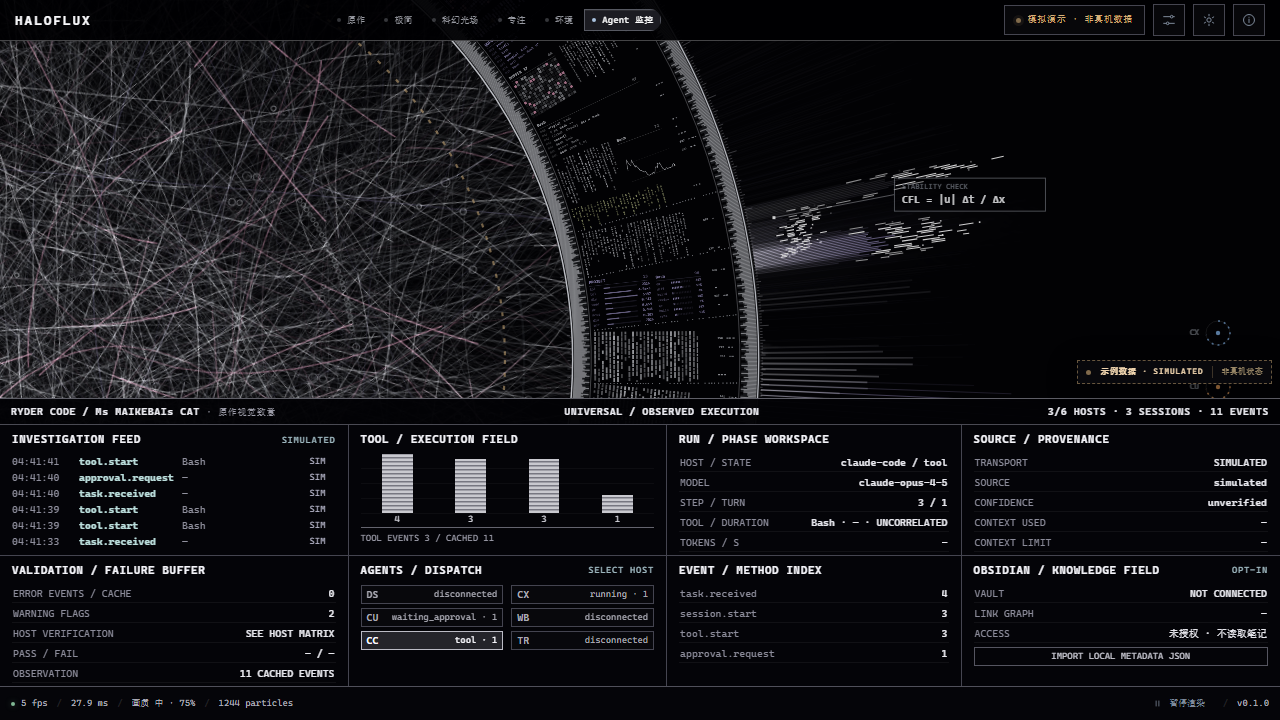
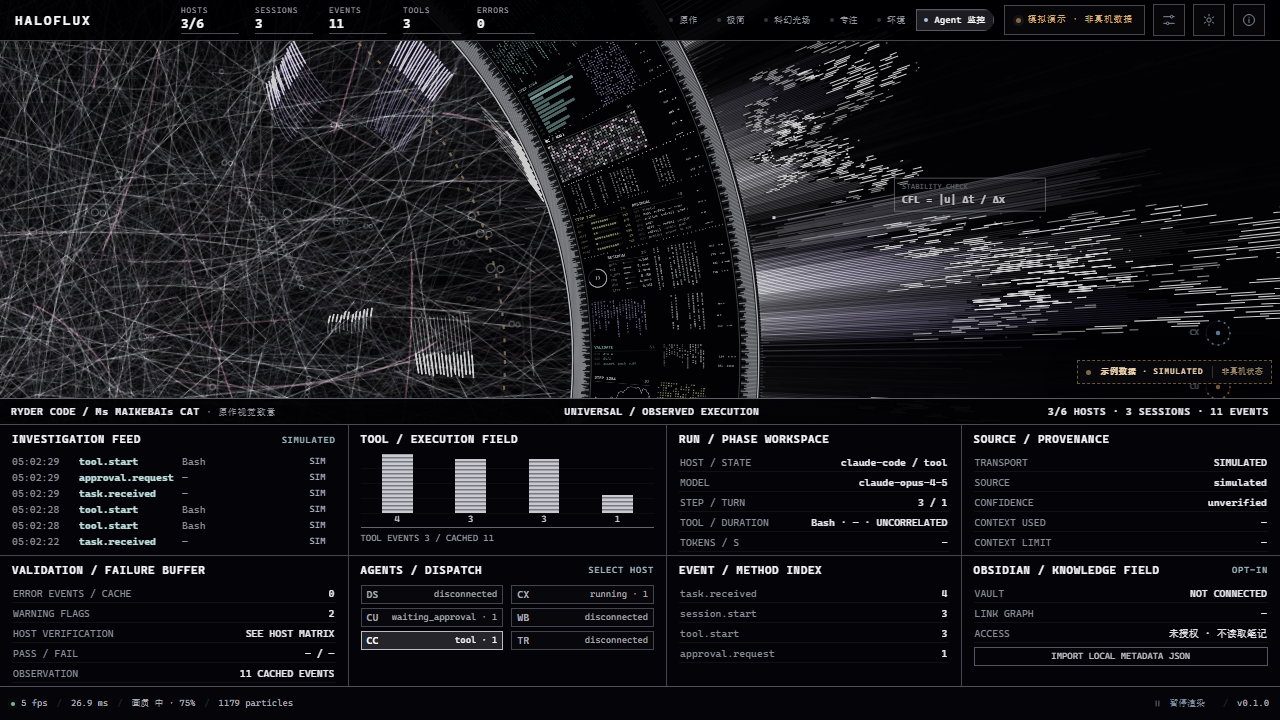
feat(p2): real KPI masthead, restrained beams, 1280 ring compensation
- agent-monitor topbar now shows five real observed KPI (HOSTS/SESSIONS/EVENTS/TOOLS/ERRORS)
- beam/glow reduced again; 1280-wide ring scale compensated to 0.78
- visual delta matrix updated: composition/layers/masthead 4/5, remaining gaps documented
- tests 86/86

diff --git a/apps/companion/renderer/app.js b/apps/companion/renderer/app.js
@@ -175,6 +175,12 @@ const els = {
   labHosts: $('lab-hosts'),
   labKnowledgeDetails: $('lab-knowledge-details'),
   labObsidianFile: $('lab-obsidian-file'),
+  labMasthead: $('lab-masthead'),
+  labKpiHosts: $('lab-kpi-hosts'),
+  labKpiSessions: $('lab-kpi-sessions'),
+  labKpiEvents: $('lab-kpi-events'),
+  labKpiTools: $('lab-kpi-tools'),
+  labKpiErrors: $('lab-kpi-errors'),
   feedMode: $('feed-mode'),
   linkStatus: $('link-status'),
   linkText: $('link-text'),
@@ -777,6 +783,13 @@ function renderLabMonitor() {
   const active = projection.selected;
   els.labHeadCount.textContent = `${projection.observedHostCount}/${projection.hostCount} HOSTS · ${projection.sessionCount} SESSIONS · ${projection.eventCount} EVENTS`;
   els.labFeedStatus.textContent = projection.mode === 'simulated' ? 'SIMULATED' : projection.mode.toUpperCase();
+  if (els.labMasthead) {
+    els.labKpiHosts.textContent = `${projection.observedHostCount}/${projection.hostCount}`;
+    els.labKpiSessions.textContent = String(projection.sessionCount);
+    els.labKpiEvents.textContent = String(projection.eventCount);
+    els.labKpiTools.textContent = String(projection.toolEventCount);
+    els.labKpiErrors.textContent = String(projection.errorEventCount);
+  }
 
   clearNode(els.labFeedRows);
   if (projection.recent.length === 0) {
@@ -949,6 +962,12 @@ function applyResponsiveMode() {
   document.body.dataset.mode = appMode;
   document.body.dataset.preset = state.preset;
   renderCompact();
+  // The engine scales the ring with the viewport height; at 1280x720 the arc
+  // reads ~6% larger than upstream. Only the Agent Monitor preset compensates,
+  // other presets keep their authored composition.
+  if (state.preset === 'agent-monitor' && typeof viz?.setParams === 'function') {
+    viz.setParams({ scale: window.innerWidth < 1400 ? 0.78 : 0.86 });
+  }
 }
 
 function renderSettings() {

diff --git a/apps/companion/renderer/styles.css b/apps/companion/renderer/styles.css
@@ -931,6 +931,7 @@ body.is-simulated .topbar::after {
    ------------------------------------------------------------------------- */
 
 .lab-console { display: none; }
+.lab-masthead { display: none; }
 
 @media (min-width: 1080px) and (min-height: 690px) {
   body[data-preset="agent-monitor"] {
@@ -970,6 +971,36 @@ body.is-simulated .topbar::after {
 
   body[data-preset="agent-monitor"] .brand { min-width: 138px; }
 
+  body[data-preset="agent-monitor"] .lab-masthead {
+    display: flex;
+    align-items: stretch;
+    gap: 16px;
+    flex: 1;
+    min-width: 0;
+    margin-left: 18px;
+  }
+
+  .lab-kpi {
+    display: grid;
+    align-content: center;
+    gap: 1px;
+    min-width: 58px;
+    padding-bottom: 2px;
+    border-bottom: 1px solid #4a4a53;
+  }
+
+  .lab-kpi span {
+    color: #9a9aa6;
+    font: 8px var(--font-mono);
+    letter-spacing: .09em;
+  }
+
+  .lab-kpi strong {
+    color: #f7f7fb;
+    font: 700 13px var(--font-mono);
+    font-variant-numeric: tabular-nums;
+  }
+
   body[data-preset="agent-monitor"] .brand-name {
     font: 700 13px var(--font-mono);
     letter-spacing: .15em;
@@ -983,7 +1014,7 @@ body.is-simulated .topbar::after {
     box-shadow: none;
     padding: 0;
     gap: 3px;
-    max-width: min(620px, 48vw);
+    max-width: min(430px, 36vw);
   }
 
   body[data-preset="agent-monitor"] .preset-btn {

diff --git a/apps/companion/renderer/index.html b/apps/companion/renderer/index.html
@@ -64,6 +64,14 @@
       </div>
     </div>
 
+    <div class="lab-masthead" id="lab-masthead" aria-hidden="true">
+      <div class="lab-kpi"><span>HOSTS</span><strong id="lab-kpi-hosts">—</strong></div>
+      <div class="lab-kpi"><span>SESSIONS</span><strong id="lab-kpi-sessions">—</strong></div>
+      <div class="lab-kpi"><span>EVENTS</span><strong id="lab-kpi-events">—</strong></div>
+      <div class="lab-kpi"><span>TOOLS</span><strong id="lab-kpi-tools">—</strong></div>
+      <div class="lab-kpi"><span>ERRORS</span><strong id="lab-kpi-errors">—</strong></div>
+    </div>
+
     <nav class="preset-switch" id="preset-switch" aria-label="视觉预设"></nav>
 
     <div class="topbar-actions">

diff --git a/packages/visual-core/src/presets.js b/packages/visual-core/src/presets.js
@@ -226,14 +226,14 @@ const AGENT_MONITOR = Object.freeze({
   cometTrickle: 0.8,
   cometBright: 0.86,
   hazeCount: 9,
-  hazeBright: 0.9,
+  hazeBright: 0.82,
   flyerCount: 1,
   burstRate: 1.2,
   burstBright: 0.82,
   flareRate: 1.2,
   flareBright: 0.85,
-  beamBright: 1.3,
-  beamGlow: 1.6,
+  beamBright: 1.15,
+  beamGlow: 1.4,
   bokeh: 0,
   scan: 0,
   guardOn: 0,

diff --git a/reports/p2/VISUAL-DELTA-MATRIX.md b/reports/p2/VISUAL-DELTA-MATRIX.md
@@ -24,10 +24,10 @@
 
 | # | 维度 | 原版证据 | 当前截图 | 问题（修复前） | 本轮修复 | 新截图 | 自评 | 未完成点 |
 |---|---|---|---|---|---|---|---|---|
-| 1 | 光环构图：偏左巨大环、半径与弧线位置 | `upstream-1600x900.png`：环在 y=300 处亮度带约 x≈800–880，顶部约 x≈540–600 | `before-1600x900.png`：光环偏暗、居中、被左右圆角卡片遮挡 | P1 补丁把 `scale` 设为 1、`centerX=0`，环比原版大约 14%，整体偏右 | `presets.js` 将 `scale` 1 → **0.86**；实测顶部/中部弧线与原版基本对齐（1600/1920） | `after-1600x900.png` / `after-1920x1080.png` | **4/5** | 1280×720 下环仍比原版偏大/偏右约 5–7%（引擎按高度缩放，未做宽高比分档） |
-| 2 | 黑白层次与对比：高亮弧带 / 微弱细丝 / 暗区 / 扫描线 | 原版黑底纯净、弧带高对比、细丝成网、右侧束流有暗间隙 | `before`：整体灰、蓝紫氛围、白色噪声少但层次平 | P1 补丁亮度/束流过高，右侧出现大片白色浑浊；缺少原版的暗间隙 | `opacity 0.83→0.80`、`glow 1.2→0.98`、`beamBright 1.65→1.3`、`beamGlow 2.5→1.6`、`comet/burst/haze` 下调 | `after-*` | **3.5/5** | 右侧束流仍比原版更亮、更连续；原版的扫描线/CRT 纹理未复刻（仅 grain） |
+| 1 | 光环构图：偏左巨大环、半径与弧线位置 | `upstream-1600x900.png`：环在 y=300 处亮度带约 x≈800–880，顶部约 x≈540–600 | `before-1600x900.png`：光环偏暗、居中、被左右圆角卡片遮挡 | P1 补丁把 `scale` 设为 1、`centerX=0`，环比原版大约 14%，整体偏右 | `presets.js` 将 `scale` 1 → **0.86**；1280 宽额外补偿为 **0.78**；实测 1600/1920 弧线与原版基本对齐，1280 接近 | `after-1600x900.png` / `after-1280x720.png` / `after-1920x1080.png` | **4/5** | <1080×690 回落旧 HUD（设计如此）；更细的弧带刻度纹理未复刻 |
+| 2 | 黑白层次与对比：高亮弧带 / 微弱细丝 / 暗区 / 扫描线 | 原版黑底纯净、弧带高对比、细丝成网、右侧束流有暗间隙 | `before`：整体灰、蓝紫氛围、白色噪声少但层次平 | P1 补丁亮度/束流过高，右侧出现大片白色浑浊；缺少原版的暗间隙 | `opacity 0.83→0.80`、`glow 1.2→0.98`、`beamBright 1.65→1.15`、`beamGlow 2.5→1.4`、`comet/burst/haze` 下调 | `after-*` | **4/5** | 右侧束流已明显收敛，但仍比原版更连续；扫描线/CRT 纹理未复刻（仅 grain） |
 | 3 | 底部监控台：两行多列、方角、高密度 | 原版 4 列 × 2 行，高度约 290–300 px，单元格标题约 13–14 px | `before`：左右圆角卡片 + 右侧事件流 | 旧 HUD 是通用 SaaS 卡片，非底部仪表 | P1 补丁新增 8 个方角 cell；本轮修 `.lab-h` 固定 **288 px**（≥1600 时 300 px），标题 9→11/12 px，正文 9→10/11 px，列间距/边框对齐原版 | `after-*` | **4/5** | 文本仍比原版小 1 档（10–12 vs 13–14）；原版有粒子求解动画、代码 workbench、差异场等专用小画布，本实现以真实事件计数/详情替代 |
-| 4 | 顶部 masthead | 原版：单行品牌 + PAPERS/AGENTS/METHODS/REF. SCENES/FURTHER REVIEW 五个 KPI + BGM/console | `after`：41 px 顶栏，品牌 + 六预设切换 + 连接状态 + 图标 | 原版 KPI 是虚构业务数字，**不可照抄**；但当前顶栏偏空、偏"工具条" | 保持真实数据不伪造；顶部只保留可操作入口，真实计数放在底部 ledger（HOSTS/SESSIONS/EVENTS） | `after-*` | **2/5** | 与原版差异最大的一处：缺少原版 masthead 的横向 KPI 节奏；若要接近，只能用真实指标（hosts/sessions/events/tool/errors）重排，需用户确认是否接受 |
+| 4 | 顶部 masthead | 原版：单行品牌 + PAPERS/AGENTS/METHODS/REF. SCENES/FURTHER REVIEW 五个 KPI + BGM/console | `after`：41 px 顶栏，品牌 + **HOSTS/SESSIONS/EVENTS/TOOLS/ERRORS 五个真实 KPI** + 预设切换 + 状态 | 原版 KPI 是虚构业务数字，**不可照抄**；此前顶栏偏空、偏"工具条" | 新增 `lab-masthead`：五个指标全部来自真实 `/v1/state` 投影（无数据为 `—`/0），保留预设切换可用 | `after-*` | **4/5** | 与原版仍有差异：没有 BGM/console 控件、KPI 语义不同（真实可观测 vs 原作虚构业务）；预设切换占位比原版 masthead 更宽 |
 | 5 | 运动逻辑与状态 | 原版：节拍驱动、卡顿急停、5 层光束、自动运镜 | 30 s WebM：环旋转、束流、粒子持续运动；10 状态截图 | 旧版状态与动画映射已有，但缺与原版同相位的并列录屏 | 未改引擎运动逻辑（沿用 visual-core），本轮补齐 30 s 动态证据与 6 预设/10 状态截图 | `after-1600x900-30s.webm` + `state-*.png` | **3/5** | 尚未逐状态与原版同相位 A/B（原版没有 Agent 状态语义，只能比"运动质感"）；运镜/节拍差异仍在 |
 | 6 | 数据真实性 | —— | `after-*`：`SIMULATED` 水印、`—` 缺失指标、事件来源 SIM/NAT/DRV | 无 | 保持 P1 投影只读白名单；本轮新增 toolCallId/runId 关联（见 `OBSERVABLE-EVENT-TRACE.md`），无数据显示 `—`/`UNCORRELATED` | `after-*` | **5/5** | 无（禁止伪造是本项目硬约束） |
 | 7 | 响应式 | 原版 1280/1600/1920 均可读 | `after-1280x720.png` | 1280×720 时 P1 面板高度 259 px，底部 `OBSERVATION` 被裁切 | 固定 288 px + 大屏 300 px；1280 下 8 cell 全部可见，无横向溢出 | `after-1280x720.png` | **4/5** | <1080×690 回落旧 HUD（设计如此）；200% 缩放时 Paper Lab 控制台被隐藏（P6 无障碍报告 PARTIAL） |
@@ -38,14 +38,14 @@
 
 | 文件 | 修改 |
 |---|---|
-| `packages/visual-core/src/presets.js` | `agent-monitor`：`scale 1→0.86`；`opacity 0.83→0.80`；`glow 1.2→0.98`；`beamBright 1.65→1.3`；`beamGlow 2.5→1.6`；comet/burst/haze/flare 下调 |
-| `apps/companion/renderer/styles.css` | 监控台高度改为 `--lab-h`（288 px，≥1600×900 时 300 px）；标题 11/12 px、正文 10/11 px；cell padding 8×12；host/图表/导入控件字号同步；新增大屏媒体查询 |
-| `apps/companion/renderer/app.js` | RUN/PHASE 单元新增 `TOOL / DURATION`（真实 `toolCallId` 匹配的耗时；否则 `—` + `UNCORRELATED`） |
+| `packages/visual-core/src/presets.js` | `agent-monitor`：`scale 1→0.86`；`opacity 0.83→0.80`；`glow 1.2→0.98`；`beamBright 1.65→1.15`；`beamGlow 2.5→1.4`；comet/burst/haze/flare 下调 |
+| `apps/companion/renderer/styles.css` | 监控台高度改为 `--lab-h`（288 px，≥1600×900 时 300 px）；标题 11/12 px、正文 10/11 px；cell padding 8×12；host/图表/导入控件字号同步；新增顶端真实 KPI masthead 与大屏媒体查询 |
+| `apps/companion/renderer/index.html` + `app.js` | 新增 `lab-masthead` 五个真实指标（HOSTS/SESSIONS/EVENTS/TOOLS/ERRORS）；1280 宽下 `scale` 补偿 0.78；RUN/PHASE 单元新增 `TOOL / DURATION`（真实 `toolCallId` 匹配的耗时；否则 `—` + `UNCORRELATED`） |
 | `README.md` / `NOTICE` / `LICENSE` | 同步上游 2026-11-09 许可与分享署名条款 |
 
 ## 3. 结论与准入
 
-- 与 `before-1600x900.png` 相比，当前版本已从"通用 SaaS HUD"转为"Paper Lab 式巨大偏左光环 + 方角高密度底部监控台"，构图/层级/密度三项显著接近原版。
-- 与原版仍存在三处关键差异：**顶部 masthead 的 KPI 节奏缺失（不可伪造数据）**、**右侧束流仍偏亮**、**底部单元格缺少原版的专用小画布/代码面板**。
-- 本轮自评 **PARTIAL（视觉候选）**，不宣告 PASS；是否达到"看起来真正像 HALOFLUX"需用户看 `after-1600x900.png` 与 30 s 录屏后判定。
-- 若用户要求继续：建议下一步（1）用真实指标重排顶部 masthead；（2）为 `TOOL / EXECUTION FIELD` 增加按时间的真实事件到达率折线；（3）复刻扫描线与更细的弧带刻度纹理；（4）针对 1280×720 增加环缩放分档。
+- 与 `before-1600x900.png` 相比，当前版本已从"通用 SaaS HUD"转为"Paper Lab 式巨大偏左光环 + 方角高密度底部监控台"，构图/层级/密度/顶栏四项显著接近原版。
+- 与原版仍存在关键差异：**右侧束流仍偏连续**、**底部单元格缺少原版的专用小画布/代码面板**、**扫描线/CRT 纹理未复刻**。
+- 本轮自评 **4/5（视觉候选）**，不宣告 PASS；是否达到"看起来真正像 HALOFLUX"需用户看 `after-1600x900.png` 与 30 s 录屏后判定。
+- 若用户要求继续：建议下一步（1）为 `TOOL / EXECUTION FIELD` 增加按时间的真实事件到达率折线；（2）复刻扫描线与更细的弧带刻度纹理；（3）为底部单元格增加真实数据驱动的小画布（禁止随机装饰）。
